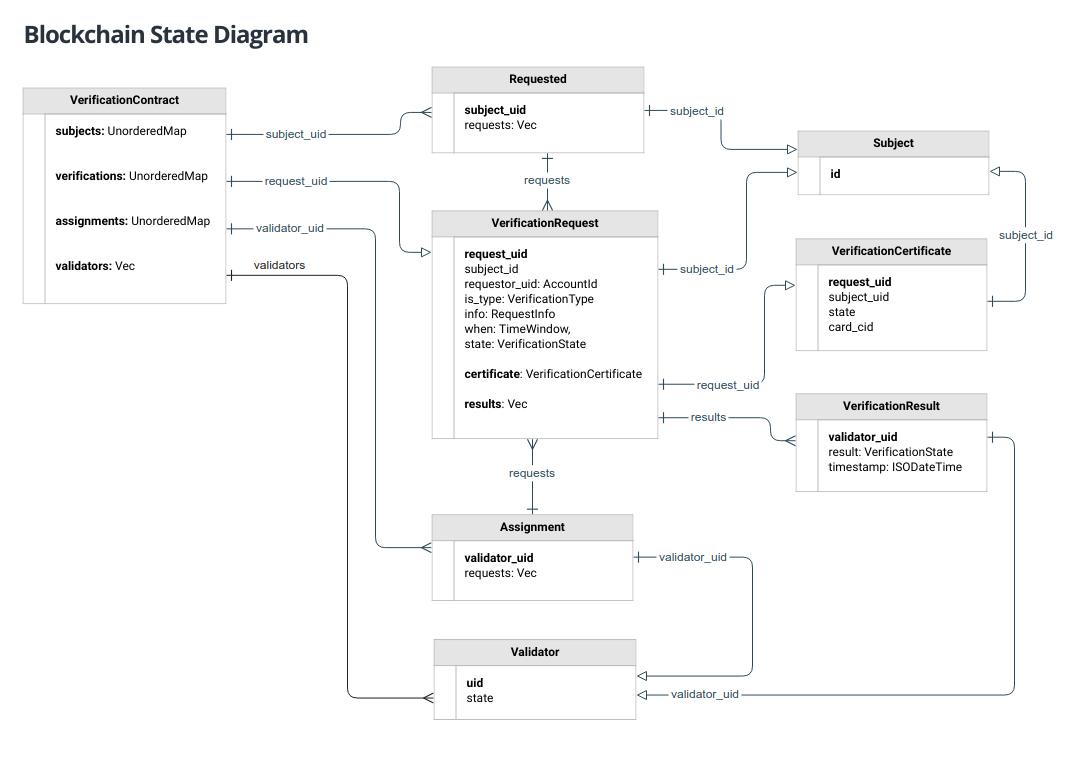
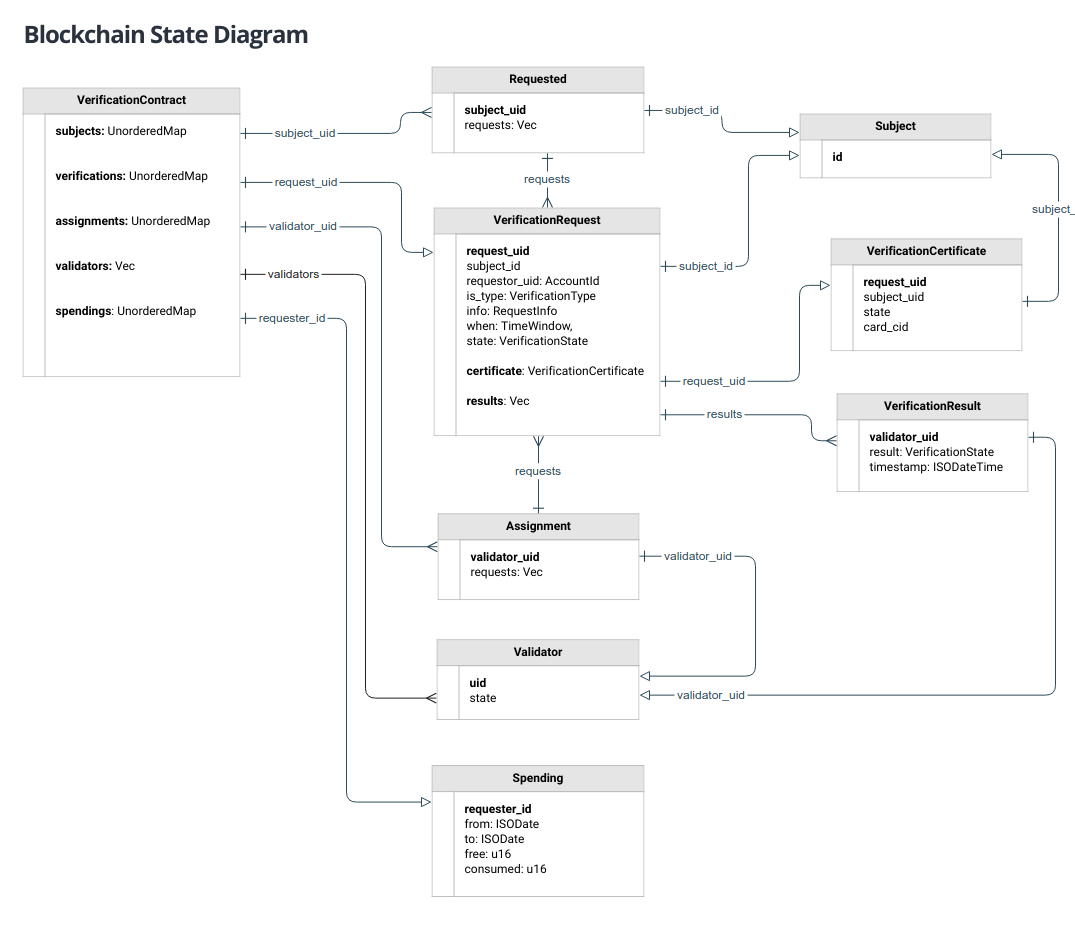
Agregar al contrato la cuota de solicitudes libres y consumidas de cada Solicitante

diff --git a/docs/data-models.md b/docs/data-models.md
@@ -181,13 +181,25 @@ This fully describes a given request for verification. Requests may be of differ
 | ------------- | ----------------------- | ------------------------------------------------------------ |
 | request_uid   | RequestId               | The current UUID of this request, as given by the caller API or dApp. |
 | is_type       | VerificationType        | The verification service required, which may include additional info for some types. |
-| requestor_uid | AccountId               | This is the account who requested the verification and will pay for it, and is NOT the same as the subject to be verified. |
+| requester_uid | AccountId               | This is the account who requested the verification and will pay for it, and is NOT the same as the subject to be verified. |
 | subject_id    | SubjectId               | This is the subject to be verified, which is ALLWAYS a real human being. Ccats, dogs and other pets may be considered in the future- |
 | info          | RequestInfo             | Relevant request information, but fully **encripted**.       |
 | when          | TimeWindow              | The time window in which this verification MUST be performed. |
 | state         | VerificationState       | The verification state of the whole request, as a result of the individual verifications. If any of the individual verifications is Rejected, then the whole verification is Rejected. |
 | results       | Vec                     | The array [MIN_VALIDATORS..MAX_VALIDATORS] of individual validator VerificationsResults. |
 | certificate   | VerificationCertificate | The final certificate emitted by the verification process.   |
+
+**struct Spending**
+
+This struct describes the spending allowed and used in a given time period for a given requester. At the start of each time period (each month), depending on the requester type (`RQ`, `VL` or `XA`) we assign a free quota to each requester. Every time he/she makes a request we discount it from his/her free quota. When no more free quota is available, the requester account must be funded to continue using the service.
+
+| Property     | Type              | Description                                                  |
+| ------------ | ----------------- | ------------------------------------------------------------ |
+| requester_id | AccountId       | This is the account who requested the verification.   |
+| from | ISODate | Starting date for the period, ex: '2022-01-06'.|
+| to | ISODate |  Ending date for the period, ex: '2022-30-06'. |
+| free | u16 | Quantity of free requests this account can do in the given time period.  |
+| consumed | u16 | Quantity of requests this account did in the given time period. | 
 
 ### Contract struct VerificationContract ###
 
@@ -199,3 +211,5 @@ This contains the full contract state.
 | subjects      | UnorderedMap | The pending verifications as an iterable Map but keyed by SubjectId, so we avoid traversing the verifications Map to find if a given subject has one or more pending requests. The value is a (variable) array of the pending requests of this particular subject. |
 | assignments   | UnorderedMap | The assigned validations, as an iterable Map keyed by ValidatorId. The value is a (variable) array of the RequestIds to be verified by this validator. |
 | validators    | Vec          | The Pool of validators, as an array of ValidatorIds.         |
+| spendings | UnorderedMap | The spending as an iterable Map keyed by AccountId. The value is the free and used requests quota of this particular account. |
+
